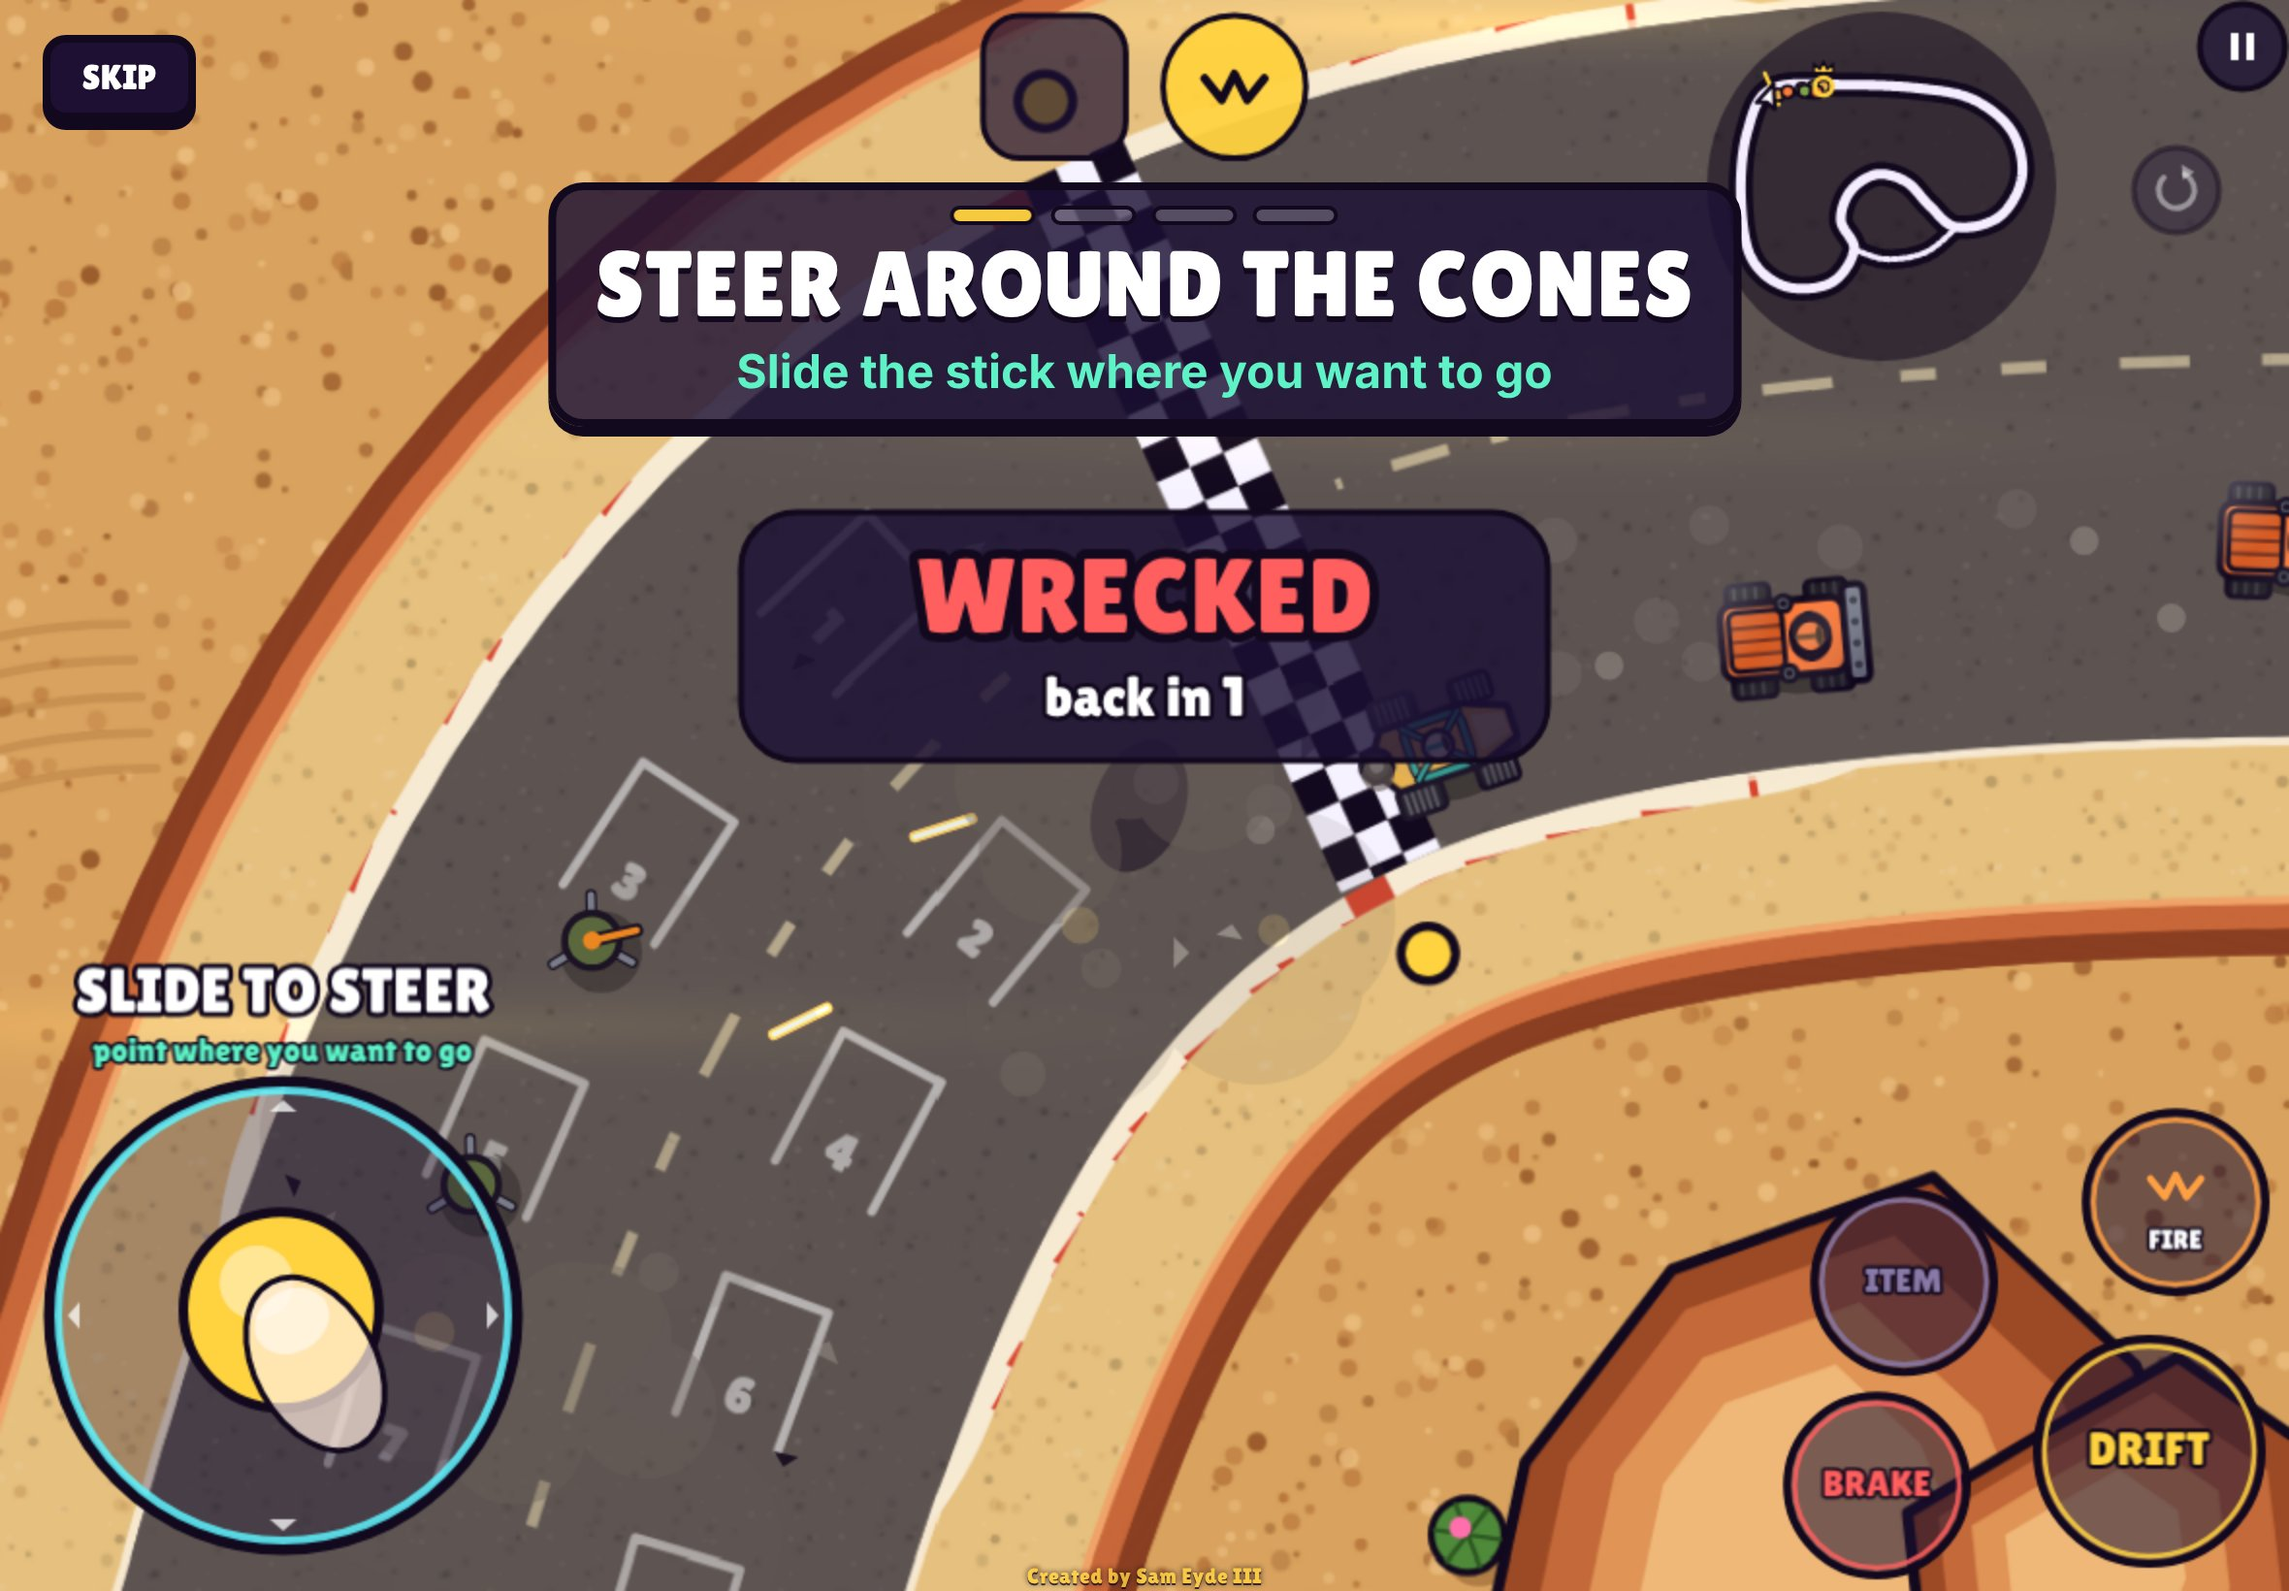
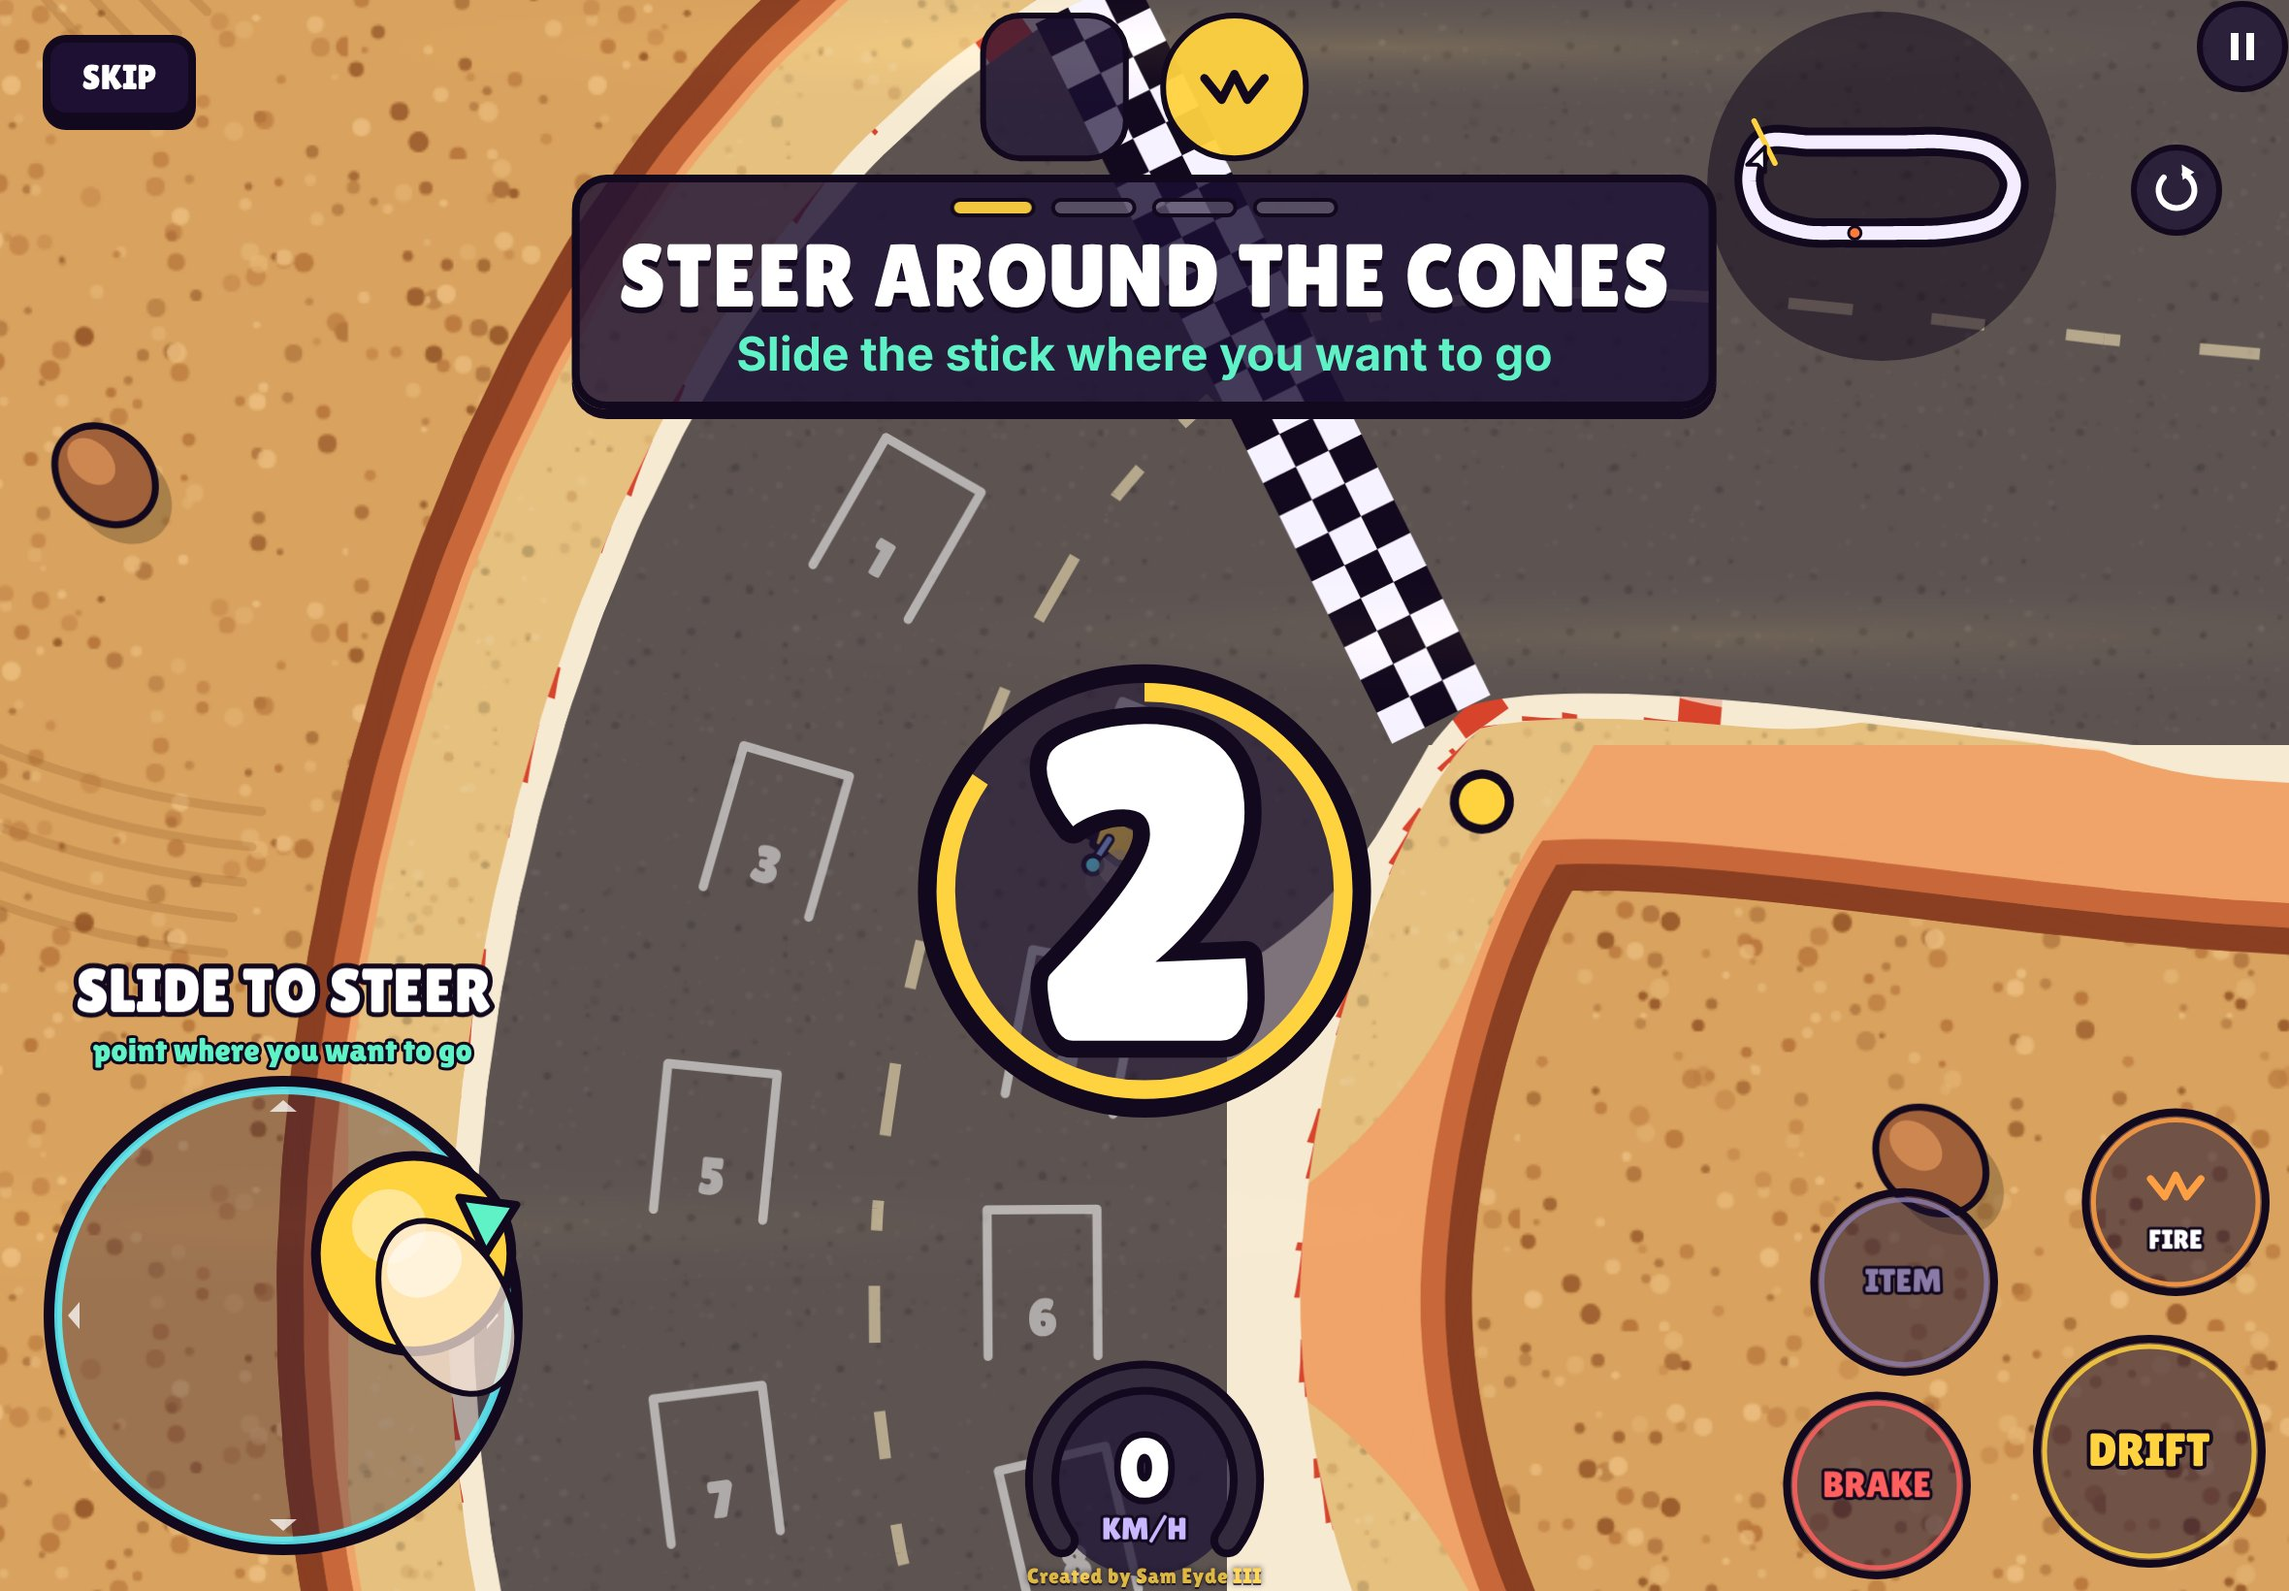
hunt: tutorial screenshots from a real tutorial run (trial merge with the engine branch)
Claude-Session: https://claude.ai/code/session_01ULcSdMBoazBaVJdhzVFwFu

diff --git a/hunt/docs/overnight/screenshots/05-racing-controls/README.md b/hunt/docs/overnight/screenshots/05-racing-controls/README.md
@@ -6,6 +6,7 @@
 - `*-go-countdown`, `*-reset-pulsing`, `*-settings`, `desktop-keys-hint`.
 - `*-tutorial-1..4`, `*-tutorial-5-ready`: the tutorial overlay and its four prompts.
 
-Taken before the engine branch was merged: the tutorial overlay is shown over a normal race with
-the server's `tut` step events fed by the screenshot script, and RESET pulses from a `stuck`
-value the script writes into the snapshot. After the merge the server provides both.
+The tutorial shots are a real tutorial run (cone slalom, drift curve, item boxes, target car),
+taken on a trial merge with the engine branch (fix/rc-steer), driven by touch. RESET pulsing is
+shown with a `stuck` value written into the snapshot by the screenshot script (being stuck on
+purpose is hard to stage); the server reports it for real.
